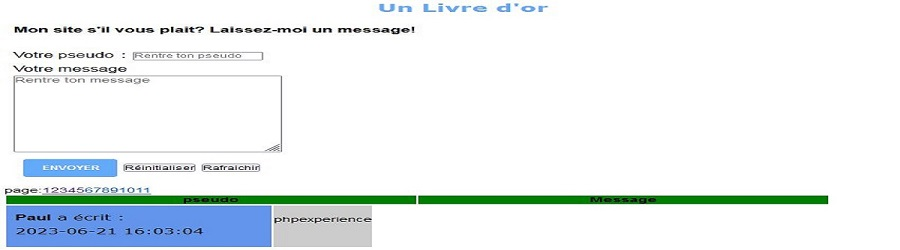
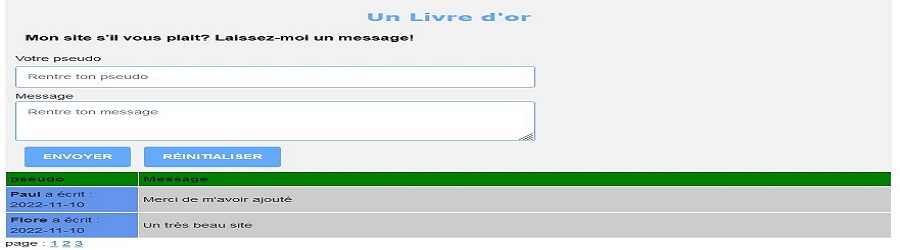
Update minichat and livre d'or

diff --git a/livreor.php b/livreor.php
@@ -13,7 +13,11 @@
   <head>
     <meta charset="utf-8" />
     <meta name="viewport" content="width=device-width, initial-scale=1">
-        <link href="css/style.css" rel ="stylesheet" type="text/css" media="all">
+    <link href="css/style.css" rel ="stylesheet" type="text/css" media="all">
+    <link href="css/form.css" rel ="stylesheet" type="text/css" media="all">
+    <link href="css/bootstrap.css" rel ="stylesheet" type="text/css" media="all">
+    <link rel="shortcut icon" type="image/ico" href="images/favicon.ico">
+    <script src="jquery-3.6.0.js"></script>
     <title>phpexperience | un livre d'or</title>
   </head>
 
@@ -43,6 +47,9 @@
         pointer-events: none;
         text-decoration: none;
       }
+    table, th, td {border: 2px solid white; 
+      padding: 5px;
+      border-collapse: collapse;}
     </style>
 
 
@@ -53,33 +60,38 @@
     
             <div id="main">
 
-                <div class="success">
+  <div class="success">
     <h1>Bienvenue <?php echo $_SESSION['name']; ?>!</h1>
-    <p>C'est votre espace utilisateur.</p>
+    <?php
+    if ($_SESSION['name'] == 'gaetan') {
+      echo "<p>C'est votre espace admin.</p>";
+    }
+    else
+    {
+      echo "<p>C'est votre espace utilisateur.</p>";
+    }
+    ?>
     <a href="profil.php">Afficher mon profil</a>
     <a href="logout.php">Déconnexion</a>
   </div>
 
-        <div>
+        <div class="container">
       <h1>Un Livre d'or</h1>
       <div class="formulaire">
-      <form action="livreor.php" method="post" class="form">
-        <p><strong>Mon site s'il vous plait? Laissez-moi un message!</strong></p>
-<p>
-<label for="pseudo">Votre pseudo</label> : <input type="text" name="pseudo" id="pseudo" class="form-control" placeholder="Rentre ton pseudo" maxlength="8" required/><br/>
-<label for="message">Votre message</label> <br /> 
-<textarea name="message" id="message" class="form-control"
-placeholder="Rentre ton message" rows="8" cols="35" required></textarea><br/>
-<input type="submit" value="Envoyer" name="envoyer" class="form-control bg-primary mx-2" />
-<input type="reset" value="Réinitialiser" name="reset" class="form-control bg-primary mx-2" />
-<input type="button" value="Rafraichir" name="refresh" onclick="location.reload();" class="form-control bg-primary mx-2" />
-</p>
-</form>
-</div>
+
+        <form action="livreor.php" method="post">
+          <p><strong>Mon site s'il vous plait? Laissez-moi un message!</strong></p>
+           <label for="pseudo">Votre pseudo</label><br> 
+            <input type="text" name="pseudo" id="pseudo" placeholder="Rentre ton pseudo" maxlength="8" required="required"> <br>
+            <label for="message">Message</label><br> 
+            <textarea name="message" id="message" placeholder="Rentre ton message"  required="required"></textarea><br>
+            <input type="submit" name="Envoyer" value="Envoyer" />
+            <input type="reset" name="reset" value="Réinitialiser" />
+    </form>
 
 </div>
 
-
+</div>
 
 <?php
 // Connexion à la base de données
@@ -114,30 +126,28 @@ header('Location: livreor.php');
 }
 }
 
+
 // Etape2
 // On écrit les liens vers chacune des pages
 // On met dans une variable le nombre de messages qu'on veut par page
-$nombreDeMessagesParPage = 1;
+$nombreDeMessagesParPage = 5;
 // On récupère le nombre total de messages
-$retour = $bdd -> query('SELECT COUNT(*) AS nb_messages FROM livreor');
+$retour = $bdd -> prepare('SELECT COUNT(*) AS nb_messages FROM livreor');
+$retour->execute();
 $donnees = $retour -> fetch();
-$totalDesMessages = $donnees['nb_messages'];
+$totalDesMessages = (int) $donnees['nb_messages'];
 // On calcule le nombre de pages à créer
-$nombreDePages = ceil($totalDesMessages/$nombreDeMessagesParPage);
-// Puis on fait une boucle pour écrire les liens vers chacune des pages
-echo 'page:';
-for($i=1; $i<=$nombreDePages;$i++)
-{
-  echo '<a href="livreor.php?page='.$i.'">'.$i.'</a>';
-}
+$nombreDePages = ceil($totalDesMessages / $nombreDeMessagesParPage);
+
 
 //Nous avons decidé d'utiliser un tableau pour afficher cette etiquette.  
-echo'<table width=90%>  
+echo'<table width=100%>  
 <tr>  
-<th width=45% bgcolor=green> pseudo</th>  
-<th width=45% bgcolor=green><font>Message</font></th>  
+<th width=900px bgcolor=green>pseudo</th>  
+<th width=85% bgcolor=green>Message</th>  
 </tr>  
 </table>'; 
+
 // Etape3
 // On affiche les messages
 // Vérification sur la page
@@ -149,22 +159,34 @@ else
 {
     $page = 1;
 }
- 
-  
-//Utilisation d'une requête préparée :
-$reponse = $bdd->prepare('SELECT * FROM livreor ORDER BY id DESC LIMIT :limitebasse,1');
-$reponse->bindValue(':limitebasse', '(($page-1)*1)', PDO::PARAM_INT);
-$reponse->execute();
- 
-//on recupère chaque entrée une à une pour l'afficher
-while ($donnees = $reponse->fetch())
-{
-    echo'<table><tr><td width=73% bgcolor=#6495ED>
-    <p><strong>' . htmlspecialchars($donnees['pseudo']) . '</strong> a écrit : <br />' .$donnees['date_creation'].'</td>'. '<td  padding=100% bgcolor=#cccccc>'. htmlspecialchars($donnees['message']) . '</p> </td></table> ';
-}
-  
 
-$reponse->closeCursor();
+
+ // Calcul du 1er message de la page
+$premier = ($page * $nombreDeMessagesParPage) - $nombreDeMessagesParPage; 
+//Utilisation d'une requête préparée :
+$retour = $bdd->prepare('SELECT * FROM livreor ORDER BY id DESC LIMIT :premier, :nombreDeMessagesParPage');
+$retour->bindValue(':premier', $premier, PDO::PARAM_INT);
+$retour->bindValue(':nombreDeMessagesParPage', $nombreDeMessagesParPage, PDO::PARAM_INT);
+$retour->execute();
+
+
+//on recupère chaque entrée une à une pour l'afficher
+while ($donnees = $retour->fetch())
+{
+    echo'<table><tr><td width=900px bgcolor=#6495ED>
+    <strong>' . htmlspecialchars($donnees['pseudo']) . '</strong> a écrit : <br />' .$donnees['date_creation'].'</td><td  width=85% bgcolor=#cccccc>'. htmlspecialchars($donnees['message']) . '</td></table> ';
+}
+ 
+
+ // Puis on fait une boucle pour écrire les liens vers chacune des pages
+echo 'page : ';
+for($i=1; $i<=$nombreDePages; $i++)
+{
+  echo ' <a href="livreor.php?page=' . $i . '">' . $i . '</a> ';
+}
+
+ 
+$retour->closeCursor();
 
 ?>
      

diff --git a/minichat.php b/minichat.php
@@ -171,7 +171,8 @@ $query->closeCursor();
                     </ul>
     </nav>
   </div> 
- 
+  
+ <?php include("includes/realisations.php")?>
     </section>
 
    <!-- Pied de page-->
